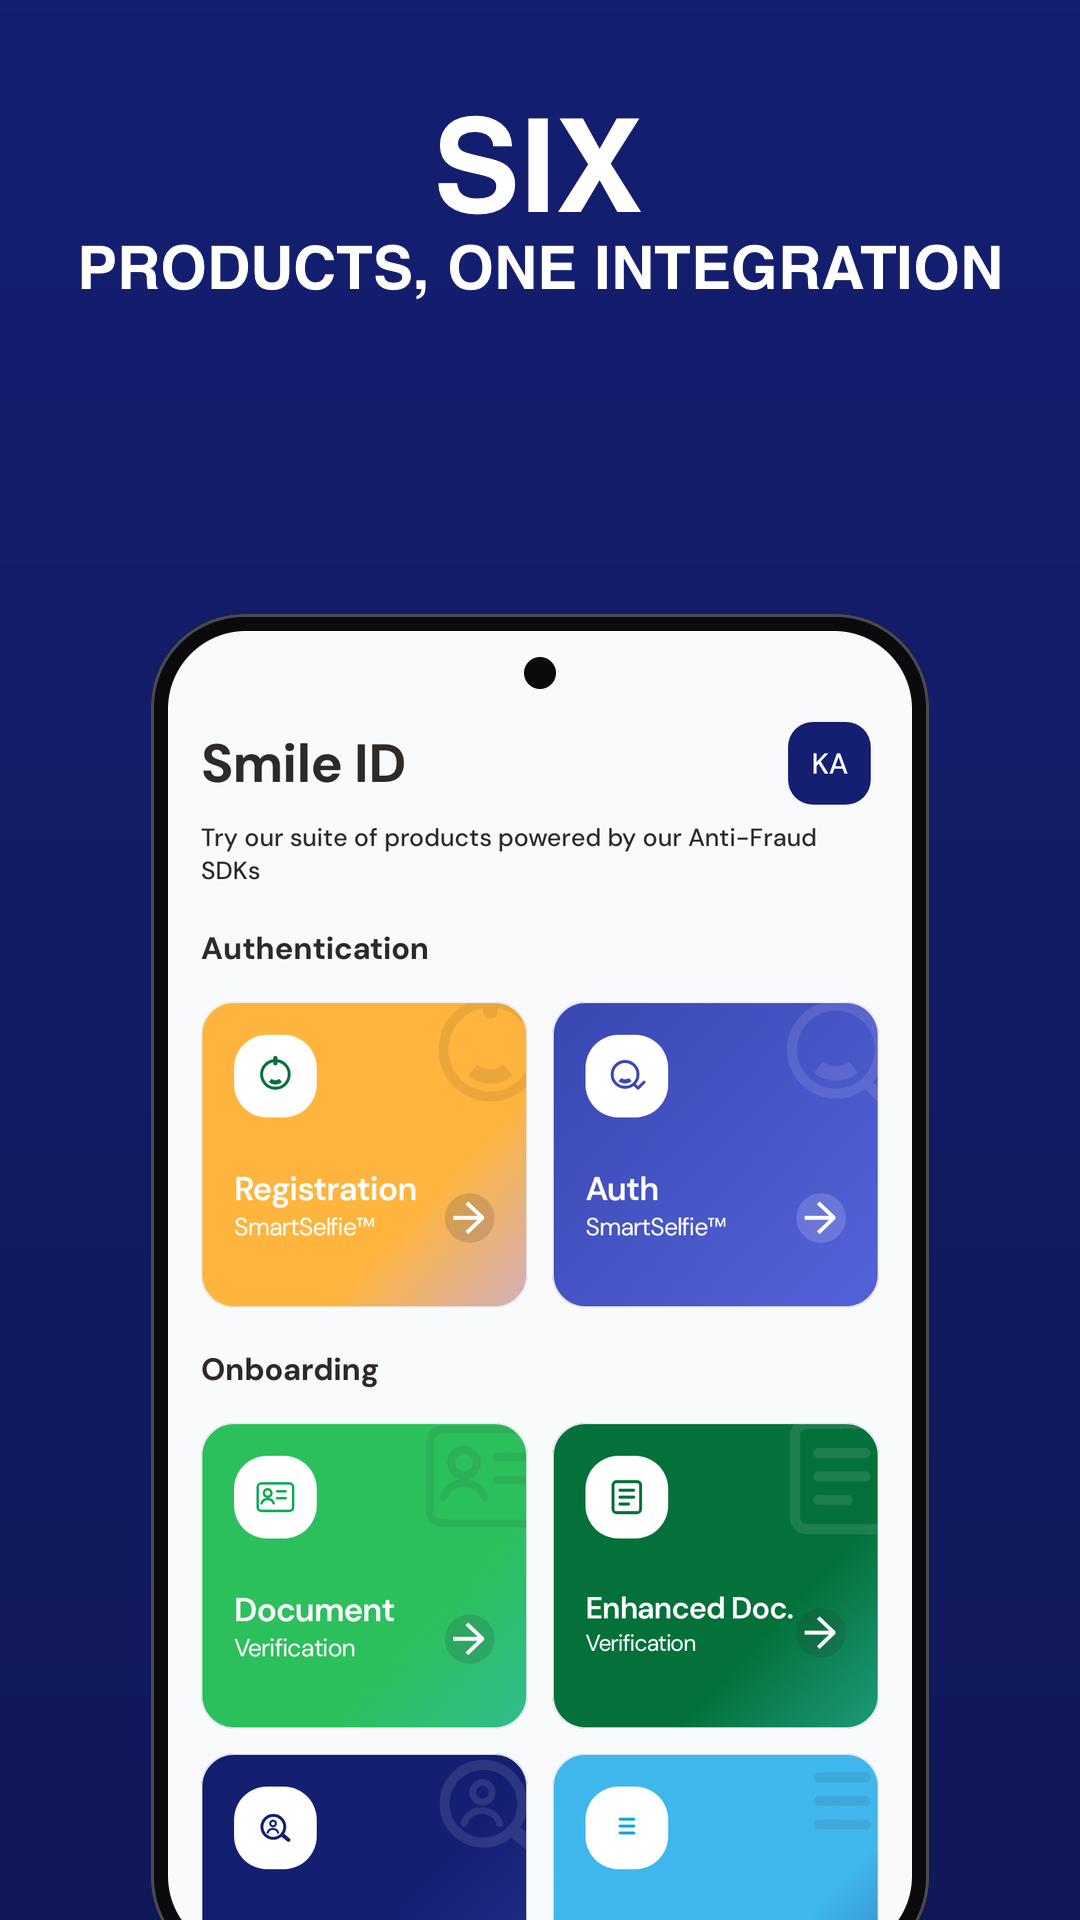
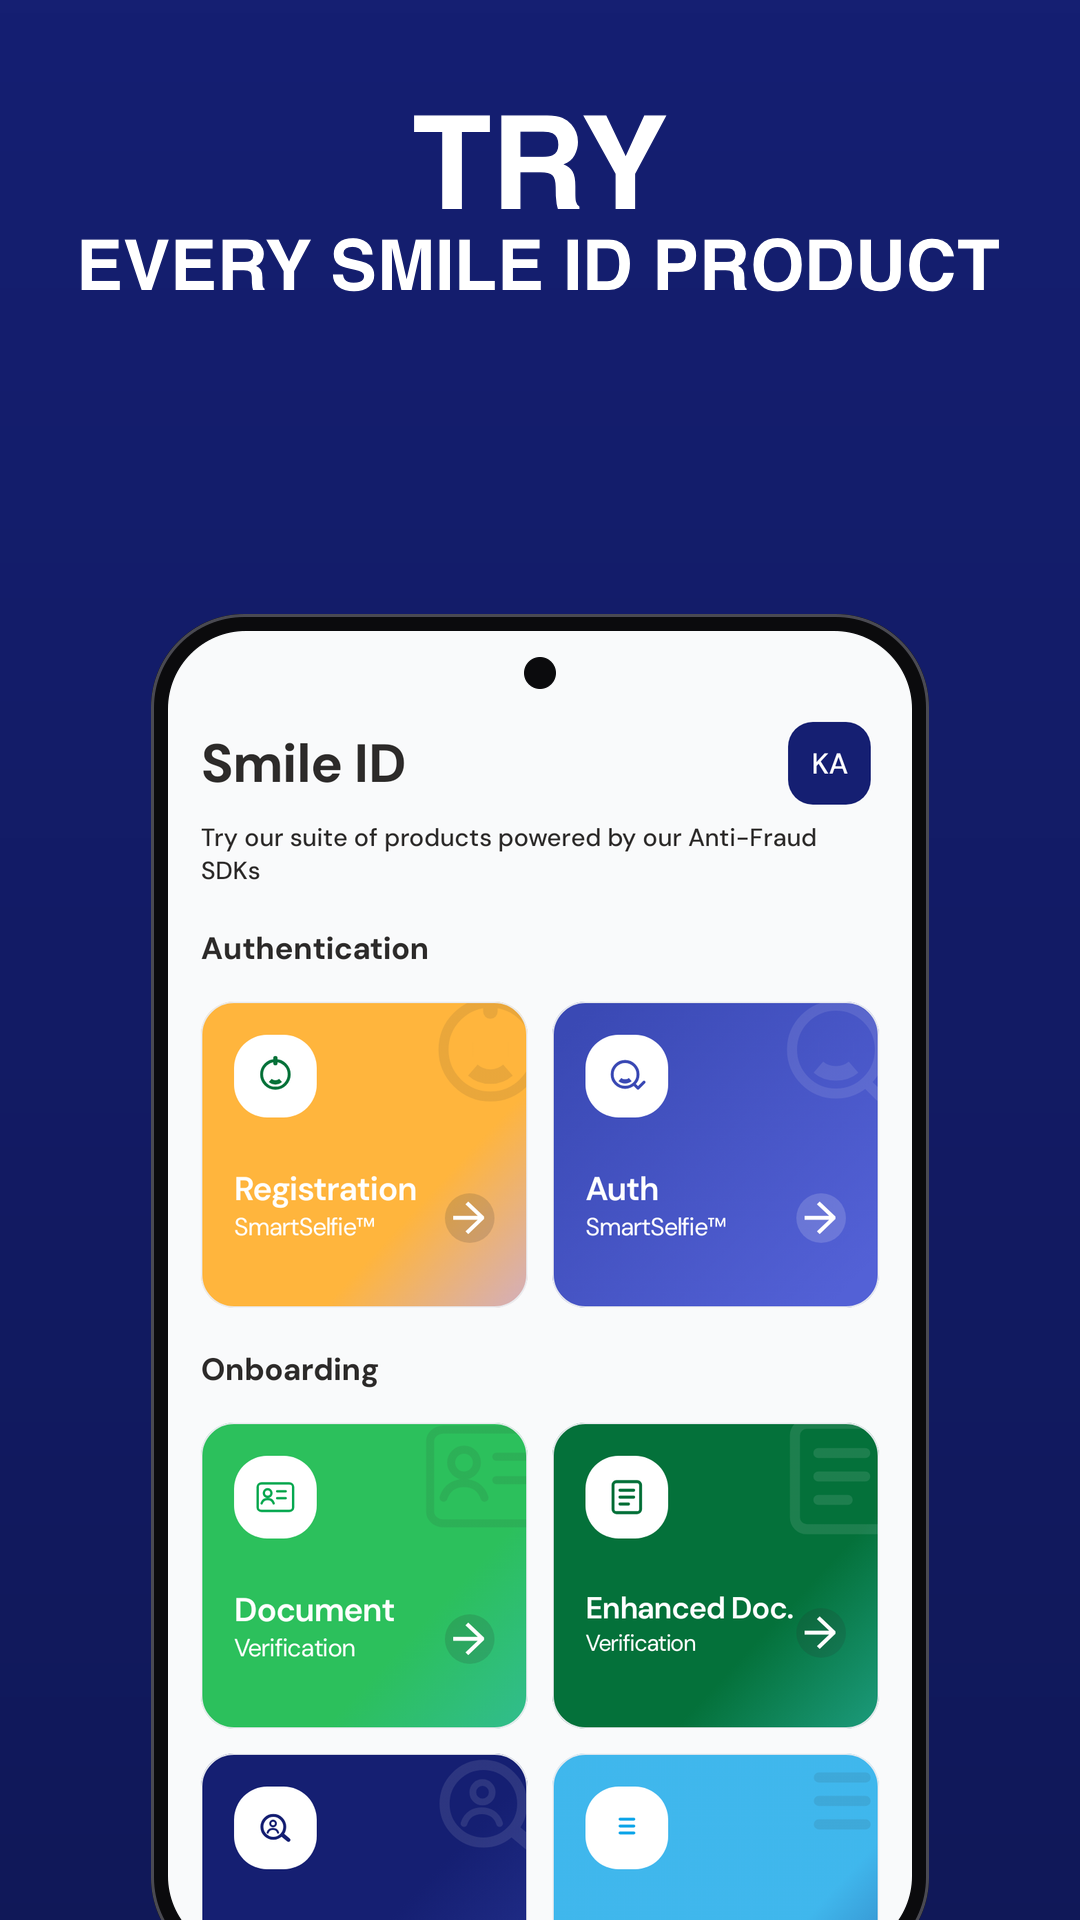
fix: rewrite the store headlines so none of them states a count

Changed region(s): [[0.0611, 0.0625, 0.9472, 0.1562]]

diff --git a/docs/plan/play-release-android.md b/docs/plan/play-release-android.md
@@ -181,6 +181,11 @@ finished strip that instead put the phone at a different height and size in ever
 as inconsistency rather than variety. All panels now use `text-top`, so the device sits at y=201
 throughout. Variety comes from the headlines and the screens, which is enough.
 
+**A headline must not carry a count.** The first set opened with "Six products, one integration", which
+is wrong the day a product is added or removed and needs a re-render nobody will remember to do. The
+headlines are imperative verb plus concrete object, each true to the panel it sits above, and none of
+them states a number.
+
 ### 2.7 What building the pipeline changed
 
 Three corrections, all found by running it rather than by reading:
